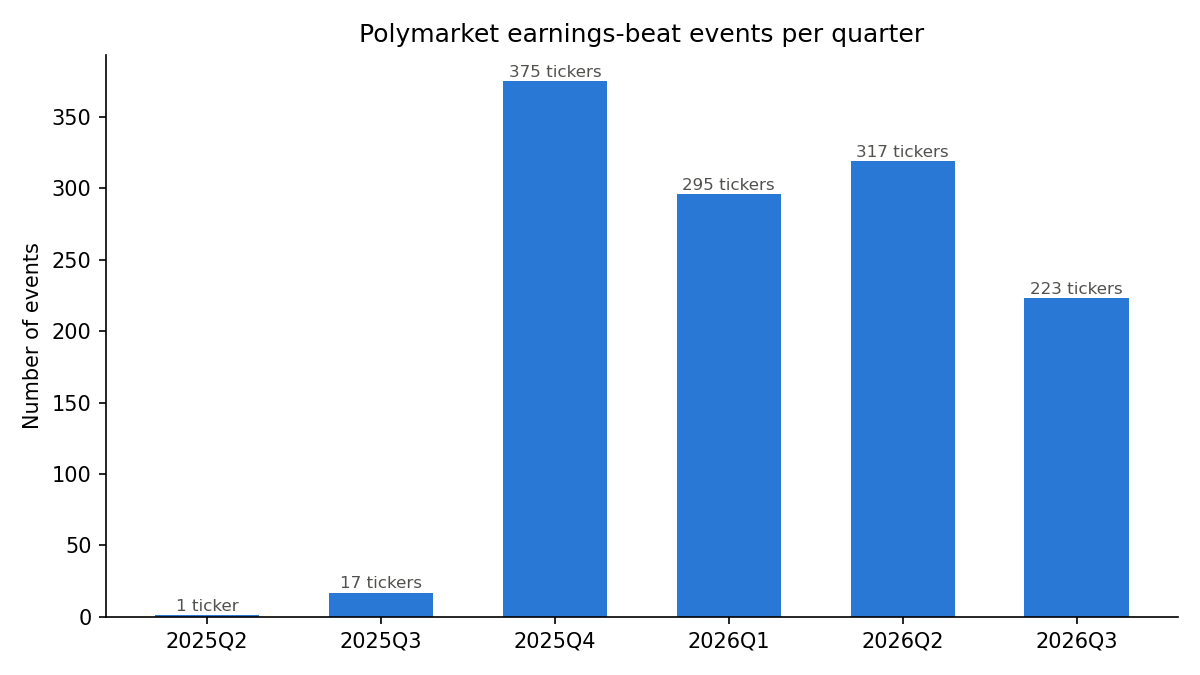
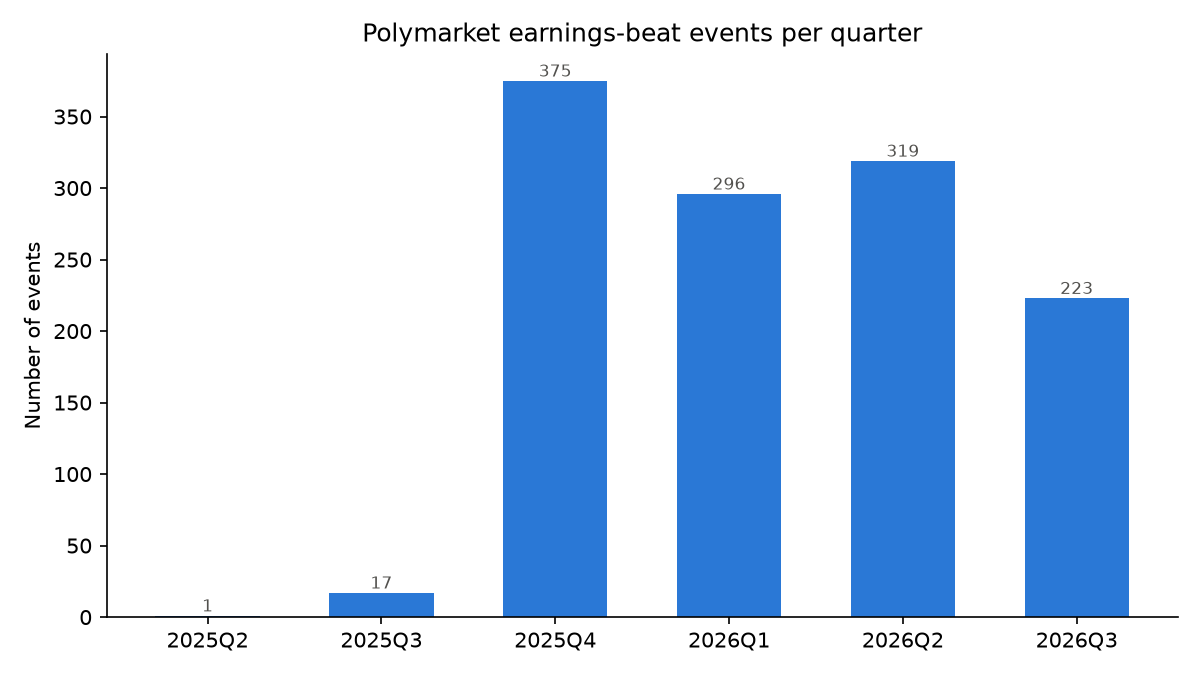
Drop ambiguous ticker-count bar labels; add historical-baseline Brier decomposition
events_per_quarter.png's per-bar ticker-count annotation was close to but not
identical to the bar height (event count) and read as a figure/text mismatch
to reviewers; the chart now shows only event counts. Also prints the
historical baseline's own reliability/resolution decomposition alongside the
price's (same paired n=1,216 sample), needed to tighten the theory section's
Brier-gap corollary.

diff --git a/notebooks/03_calibration_and_encompassing.py b/notebooks/03_calibration_and_encompassing.py
@@ -119,6 +119,28 @@ def main():
     plot_reliability_diagram(decomp["bin_table"], FIGURES_DIR)
     print(f"\nSaved figure to {FIGURES_DIR / 'reliability_diagram.png'}")
 
+    # Same paired non-null subsample compare_forecasts/bootstrap_brier_gap_ci use above (n=1,216),
+    # not the full df, so this decomposition's uncertainty term matches decomp's exactly and the
+    # two are directly comparable for the theory section's corollary.
+    paired = df.dropna(subset=["implied_prob_pre_earnings", "historical_beat_rate"])
+    decomp_price_paired = brier_decomposition(paired["implied_prob_pre_earnings"], paired["actual_beat"])
+    decomp_prior_paired = brier_decomposition(paired["historical_beat_rate"], paired["actual_beat"])
+    _print_section(
+        "Brier decomposition, implied_prob_pre_earnings vs historical_beat_rate, same n=1,216 paired sample "
+        "(for the theory-section corollary)",
+        {
+            "price_reliability": decomp_price_paired["reliability"],
+            "price_resolution": decomp_price_paired["resolution"],
+            "prior_reliability": decomp_prior_paired["reliability"],
+            "prior_resolution": decomp_prior_paired["resolution"],
+            "exact_gap_via_resolution_minus_reliability": (
+                (decomp_price_paired["resolution"] - decomp_price_paired["reliability"])
+                - (decomp_prior_paired["resolution"] - decomp_prior_paired["reliability"])
+            ),
+            "direct_brier_gap": comparison["brier_historical"] - comparison["brier_implied"],
+        },
+    )
+
     run_encompassing_regression(df)
 
 

diff --git a/notebooks/02_descriptive_analysis.py b/notebooks/02_descriptive_analysis.py
@@ -26,13 +26,17 @@ def _print_section(title, obj):
 
 
 def plot_events_per_quarter(coverage, out_dir):
-    """Bar chart of event count per quarter, with unique-ticker count annotated on each bar."""
+    """Bar chart of event count per quarter. Deliberately does not annotate unique-ticker counts
+    on the bars: that figure is close to but not identical to the event count (a small number of
+    tickers report more than once within the same quarter), and an earlier version of this chart
+    that overlaid both numbers on the same bar read as an error to reviewers. The unique-ticker
+    breakdown, when needed, is reported in prose instead.
+    """
     fig, ax = plt.subplots(figsize=(8, 4.5))
     x = coverage.index.astype(str)
     ax.bar(x, coverage["n_events"], color=BLUE, width=0.6)
-    for i, (n_events, n_tickers) in enumerate(zip(coverage["n_events"], coverage["n_unique_tickers"])):
-        label = f"{n_tickers} ticker" + ("" if n_tickers == 1 else "s")
-        ax.text(i, n_events + 3, label, ha="center", fontsize=8, color="#52514e")
+    for i, n_events in enumerate(coverage["n_events"]):
+        ax.text(i, n_events + 3, str(n_events), ha="center", fontsize=8, color="#52514e")
     ax.set_title("Polymarket earnings-beat events per quarter")
     ax.set_ylabel("Number of events")
     ax.spines[["top", "right"]].set_visible(False)
